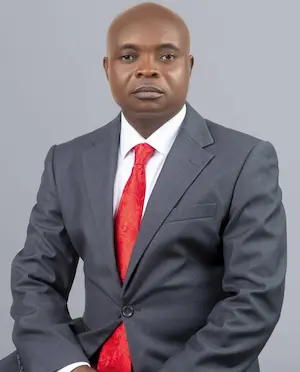
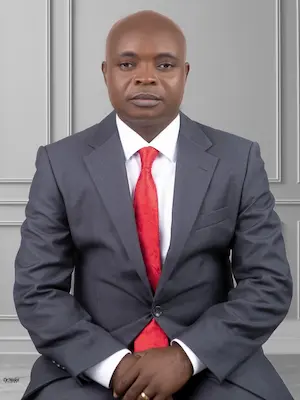
Home page updated

diff --git a/styles/base.css b/styles/base.css
@@ -227,7 +227,10 @@ main {
 }
 
 .photo img {
-    width: 100%;
-    height: auto;
+    width: 300px;
+    height: 400px;
+    object-fit: cover;
     padding: 15px;
+    margin: 0 auto;
+    display: block;
 }

diff --git a/index.html b/index.html
@@ -77,7 +77,7 @@
         </section>
         <section class="photo">
             <h2>My Photo</h2>
-            <img src="images/potrait.webp" width="300" height="400" alt="My Photo">
+            <img src="images/potrait.webp" alt="My Photo" loading="lazy">
         </section>
         <section class="cert-courses">
             <h2>Web Certificate Courses</h2>